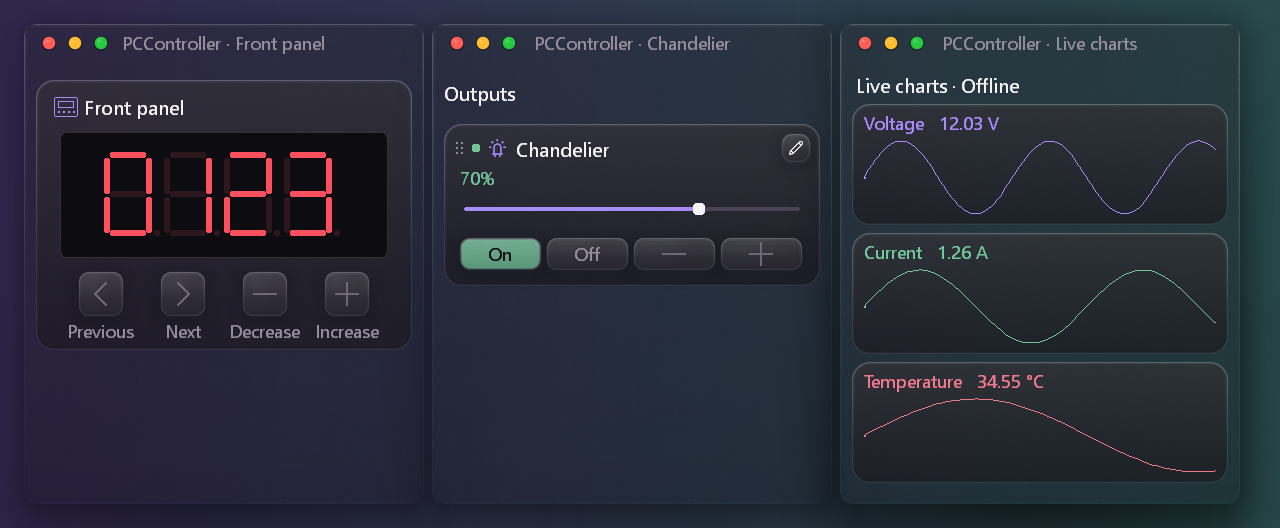
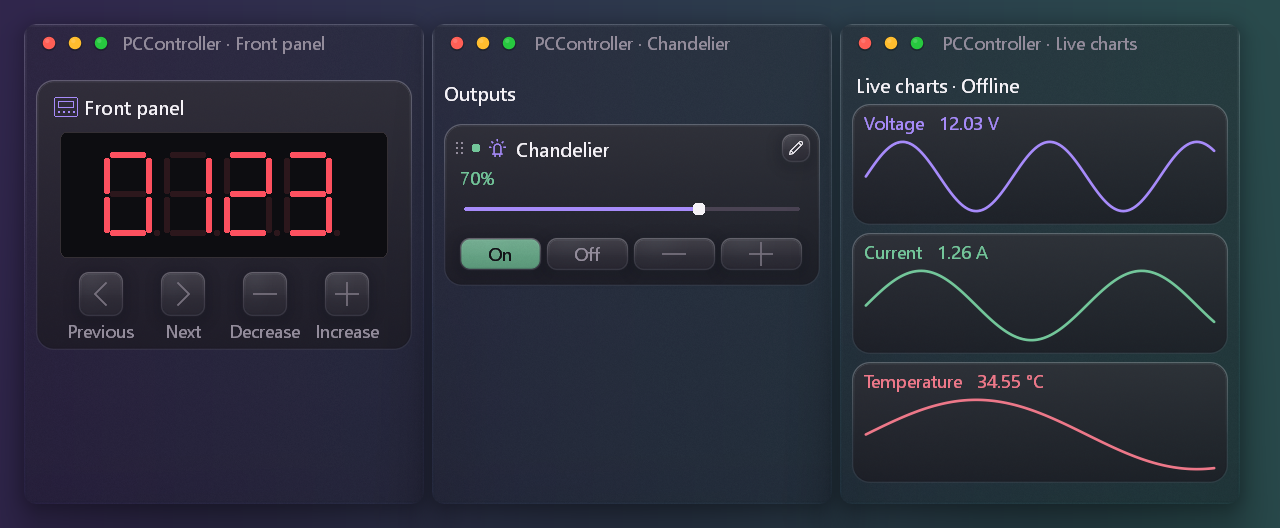
fix(desktop): antialias charts and finish README preview launchers

diff --git a/Tools/NativeDesktop/internal/ui/controller_charts_windows.go b/Tools/NativeDesktop/internal/ui/controller_charts_windows.go
@@ -1,0 +1,109 @@
+//go:build windows
+
+package ui
+
+import (
+	"image"
+	"image/color"
+	"math"
+	"slices"
+
+	"github.com/lxn/walk"
+	"github.com/srwiley/rasterx"
+	"golang.org/x/image/math/fixed"
+)
+
+// Coordinates are normalized sample positions, not integer device pixels.
+// Invalid points break the path; antialiasing never bridges missing telemetry.
+type controllerChartPoint struct {
+	x, y  float64
+	valid bool
+}
+
+type controllerChartRaster struct {
+	width, height, dpi int
+	ink                walk.Color
+	points             []controllerChartPoint
+	bitmap             *walk.Bitmap
+}
+
+func controllerChartStroke(dpi int) float64 {
+	return 1.8 * float64(max(96, dpi)) / 96
+}
+
+func rasterControllerChart(width, height, dpi int, ink walk.Color, points []controllerChartPoint) *image.RGBA {
+	target := image.NewRGBA(image.Rect(0, 0, width, height))
+	scanner := rasterx.NewScannerGV(width, height, target, target.Bounds())
+	scanner.SetColor(color.RGBA{R: byte(ink), G: byte(ink >> 8), B: byte(ink >> 16), A: 255})
+	stroke := controllerChartStroke(dpi)
+	path := rasterx.NewStroker(width, height, scanner)
+	path.SetStroke(fixed.Int26_6(math.Round(stroke*64)), 4<<6, rasterx.RoundCap, rasterx.RoundCap, rasterx.RoundGap, rasterx.Round)
+	inset := stroke/2 + 0.5
+	spanX, spanY := math.Max(0, float64(width)-2*inset), math.Max(0, float64(height)-2*inset)
+	toFixed := func(p controllerChartPoint) fixed.Point26_6 {
+		return fixed.Point26_6{X: fixed.Int26_6(math.Round((inset + p.x*spanX) * 64)), Y: fixed.Int26_6(math.Round((inset + p.y*spanY) * 64))}
+	}
+	count := 0
+	var first fixed.Point26_6
+	stop := func() {
+		if count == 0 {
+			return
+		}
+		if count == 1 {
+			// A tiny segment yields the same round coverage for an isolated
+			// observation, without inventing a link to another sample.
+			path.Line(fixed.Point26_6{X: first.X + 1, Y: first.Y})
+		}
+		path.Stop(false)
+		count = 0
+	}
+	for _, point := range points {
+		if !point.valid || math.IsNaN(point.x) || math.IsNaN(point.y) || math.IsInf(point.x, 0) || math.IsInf(point.y, 0) {
+			stop()
+			continue
+		}
+		point.x, point.y = math.Max(0, math.Min(1, point.x)), math.Max(0, math.Min(1, point.y))
+		p := toFixed(point)
+		if count == 0 {
+			first = p
+			path.Start(p)
+		} else {
+			path.Line(p)
+		}
+		count++
+	}
+	stop()
+	path.Draw()
+	return target
+}
+
+func (s *Shell) drawControllerChart(c *walk.Canvas, slot int, bounds walk.Rectangle, ink walk.Color, points []controllerChartPoint) error {
+	if bounds.Width <= 0 || bounds.Height <= 0 {
+		return nil
+	}
+	if s.controllerChartRasters == nil {
+		s.controllerChartRasters = make(map[int]*controllerChartRaster)
+	}
+	dpi := c.DPI()
+	cached := s.controllerChartRasters[slot]
+	if cached == nil || cached.width != bounds.Width || cached.height != bounds.Height || cached.dpi != dpi || cached.ink != ink || !slices.Equal(cached.points, points) {
+		rgba := rasterControllerChart(bounds.Width, bounds.Height, dpi, ink, points)
+		bitmap, err := walk.NewBitmapFromImageForDPI(rgba, dpi)
+		if err != nil {
+			return err
+		}
+		if cached != nil {
+			cached.bitmap.Dispose()
+		}
+		cached = &controllerChartRaster{width: bounds.Width, height: bounds.Height, dpi: dpi, ink: ink, points: slices.Clone(points), bitmap: bitmap}
+		s.controllerChartRasters[slot] = cached
+	}
+	return c.DrawImagePixels(cached.bitmap, walk.Point{X: bounds.X, Y: bounds.Y})
+}
+
+func (s *Shell) disposeControllerChartRasters() {
+	for _, cached := range s.controllerChartRasters {
+		cached.bitmap.Dispose()
+	}
+	s.controllerChartRasters = nil
+}

diff --git a/Tools/NativeDesktop/internal/ui/controller_charts_windows_test.go b/Tools/NativeDesktop/internal/ui/controller_charts_windows_test.go
@@ -1,0 +1,85 @@
+//go:build windows
+
+package ui
+
+import (
+	"math"
+	"testing"
+
+	"github.com/lxn/walk"
+)
+
+func TestControllerChartHasSubpixelCoverageAtEachDPI(t *testing.T) {
+	for _, dpi := range []int{96, 144, 192} {
+		raster := rasterControllerChart(160, 60, dpi, walk.RGB(167, 139, 250), []controllerChartPoint{{x: 0, y: 0.2, valid: true}, {x: 1, y: 0.8, valid: true}})
+		partial, opaque := 0, 0
+		for i := 0; i < len(raster.Pix); i += 4 {
+			a := raster.Pix[i+3]
+			if a > 0 && a < 255 {
+				partial++
+			}
+			if a == 255 {
+				opaque++
+			}
+			if raster.Pix[i] > a || raster.Pix[i+1] > a || raster.Pix[i+2] > a {
+				t.Fatal("chart is not premultiplied; acrylic edges would fringe")
+			}
+		}
+		if partial < 150 || opaque < 20 {
+			t.Fatalf("dpi=%d: missing antialiasing/solid stroke: partial=%d opaque=%d", dpi, partial, opaque)
+		}
+	}
+}
+
+func TestControllerChartPreservesGapsAndIsolatedSamples(t *testing.T) {
+	raster := rasterControllerChart(160, 60, 96, walk.RGB(115, 198, 154), []controllerChartPoint{
+		{x: 0, y: 0.5, valid: true}, {x: 0.2, y: 0.5, valid: true}, {},
+		{x: 0.5, y: 0.5, valid: true}, {},
+		{x: math.NaN(), y: 0.5, valid: true},
+		{x: 0.8, y: 0.5, valid: true}, {x: 1, y: 0.5, valid: true},
+	})
+	for _, x := range []int{55, 105} {
+		for y := 0; y < 60; y++ {
+			if raster.RGBAAt(x, y).A != 0 {
+				t.Fatal("stroke connected across missing telemetry")
+			}
+		}
+	}
+	if raster.RGBAAt(80, 30).A == 0 {
+		t.Fatal("isolated observed sample disappeared")
+	}
+}
+
+func TestControllerChartRasterCacheLifecycle(t *testing.T) {
+	s, _ := newControllerWindowFixture(t)
+	s.mw.Show()
+	pumpControllerFixture(s)
+	c, err := s.surface.CreateCanvas()
+	if err != nil {
+		t.Fatal(err)
+	}
+	defer c.Dispose()
+	points := []controllerChartPoint{{x: 0, y: 0.2, valid: true}, {x: 1, y: 0.8, valid: true}}
+	bounds := walk.Rectangle{Width: 160, Height: 60}
+	draw := func() {
+		t.Helper()
+		if err := s.drawControllerChart(c, 0, bounds, walk.RGB(167, 139, 250), points); err != nil {
+			t.Fatal(err)
+		}
+	}
+	draw()
+	first := s.controllerChartRasters[0]
+	draw()
+	if first != s.controllerChartRasters[0] {
+		t.Fatal("unchanged paint rerasterized the chart")
+	}
+	points[1].y = 0.6
+	draw()
+	if first == s.controllerChartRasters[0] {
+		t.Fatal("new sample did not invalidate chart")
+	}
+	s.releaseHiddenRenderResources()
+	if len(s.controllerChartRasters) != 0 {
+		t.Fatal("hidden widget retained native chart bitmaps")
+	}
+}

diff --git a/Tools/Controller/internal/tui/preview_svg.go b/Tools/Controller/internal/tui/preview_svg.go
@@ -21,7 +21,8 @@ func PreviewSVG(frame string) string {
 		width = max(width, ansi.StringWidth(line))
 	}
 	var out strings.Builder
-	fmt.Fprintf(&out, `<svg xmlns="http://www.w3.org/2000/svg" width="%d" height="%d" viewBox="0 0 %d %d" role="img" aria-label="PCController terminal interface preview"><rect width="100%%" height="100%%" rx="12" fill="#121116"/><g font-family="Cascadia Mono,Consolas,DejaVu Sans Mono,monospace" font-size="14" xml:space="preserve">`, width*9+32, len(lines)*20+32, width*9+32, len(lines)*20+32)
+	// Keep terminal spacing explicit, including in SVG2 browsers.
+	fmt.Fprintf(&out, `<svg xmlns="http://www.w3.org/2000/svg" width="%d" height="%d" viewBox="0 0 %d %d" role="img" aria-label="PCController terminal interface preview"><rect width="100%%" height="100%%" rx="12" fill="#121116"/><g font-family="Cascadia Mono,Consolas,DejaVu Sans Mono,monospace" font-size="14" style="white-space:pre" xml:space="preserve">`, width*9+32, len(lines)*20+32, width*9+32, len(lines)*20+32)
 	fg, bg, bold, inverse := "#f5f2f7", "", false, false
 	for row, line := range lines {
 		x, offset := 16, 0
@@ -45,7 +46,14 @@ func PreviewSVG(frame string) string {
 			if bold {
 				weight = "bold"
 			}
-			fmt.Fprintf(&out, `<text x="%d" y="%d" fill="%s" font-weight="%s" textLength="%d" lengthAdjust="spacingAndGlyphs">%s</text>`, x, 31+row*20, ink, weight, pixels, html.EscapeString(text))
+			// Browsers exclude trailing whitespace from textLength, even with
+			// white-space:pre. Advance the complete terminal span ourselves and
+			// fit only its visible content; NBSP preserves interior cell padding.
+			visible := strings.Trim(text, " ")
+			if visible != "" {
+				leading := len(text) - len(strings.TrimLeft(text, " "))
+				fmt.Fprintf(&out, `<text x="%d" y="%d" fill="%s" font-weight="%s" textLength="%d" lengthAdjust="spacingAndGlyphs">%s</text>`, x+leading*9, 31+row*20, ink, weight, ansi.StringWidth(visible)*9, html.EscapeString(strings.ReplaceAll(visible, " ", "\u00a0")))
+			}
 			x += pixels
 		}
 		for _, match := range previewSGR.FindAllStringSubmatchIndex(line, -1) {

diff --git a/Tools/NativeDesktop/internal/ui/controller_widgets_windows.go b/Tools/NativeDesktop/internal/ui/controller_widgets_windows.go
@@ -339,12 +339,7 @@ func (s *Shell) paintControllerCharts(c *walk.Canvas, b walk.Rectangle, p palett
 			hi += 0.5
 		}
 		plot := walk.Rectangle{X: r.X + 12, Y: r.Y + 36, Width: r.Width - 24, Height: max(8, r.Height-48)}
-		pen, err := walk.NewCosmeticPen(walk.PenSolid, m.color)
-		if err != nil {
-			continue
-		}
-		var previous walk.Point
-		have := false
+		points := make([]controllerChartPoint, 0, len(history))
 		span := last.at.Sub(history[0].at).Seconds()
 		if span <= 0 {
 			span = 1
@@ -352,18 +347,14 @@ func (s *Shell) paintControllerCharts(c *walk.Canvas, b walk.Rectangle, p palett
 		for _, point := range history {
 			v, ok := m.value(point)
 			if !ok {
-				have = false
+				points = append(points, controllerChartPoint{})
 				continue
 			}
-			next := walk.Point{X: plot.X + int(point.at.Sub(history[0].at).Seconds()/span*float64(plot.Width)), Y: plot.Y + plot.Height - int((v-lo)/(hi-lo)*float64(plot.Height))}
-			if have {
-				c.DrawLinePixels(pen, previous, next)
-			} else {
-				controllerFill(c, walk.Rectangle{X: next.X, Y: next.Y, Width: 2, Height: 2}, m.color, 1)
-			}
-			previous, have = next, true
+			points = append(points, controllerChartPoint{x: point.at.Sub(history[0].at).Seconds() / span, y: 1 - (v-lo)/(hi-lo), valid: true})
 		}
-		pen.Dispose()
+		if err := s.drawControllerChart(c, i, plot, m.color, points); err != nil {
+			return err
+		}
 	}
 	return nil
 }

diff --git a/Tools/NativeDesktop/internal/ui/shell_windows.go b/Tools/NativeDesktop/internal/ui/shell_windows.go
@@ -110,6 +110,7 @@ type Shell struct {
 	controllerOwner             *Shell
 	controllerWidgetID          string
 	controllerWidgets           map[string]*Shell
+	controllerChartRasters      map[int]*controllerChartRaster
 	controllerHistory           []controllerTelemetryPoint
 	controller                  *presentation.Options
 	controllerState             presentation.Snapshot
@@ -500,6 +501,7 @@ func (s *Shell) Close() {
 		s.appIcon = nil
 	}
 	s.closeControllerInline()
+	s.disposeControllerChartRasters()
 	for _, font := range s.controllerIconFonts {
 		font.Dispose()
 	}

diff --git a/Tools/Controller/internal/tui/preview_svg_test.go b/Tools/Controller/internal/tui/preview_svg_test.go
@@ -28,3 +28,12 @@ func TestPreviewPageNamesUseSharedRouting(t *testing.T) {
 		t.Fatal("unknown page accepted")
 	}
 }
+
+func TestPreviewSVGSeparatesTerminalPaddingFromVisibleText(t *testing.T) {
+	svg := PreviewSVG("\x1b[48;5;1m  OPEN  \x1b[0m")
+	if !strings.Contains(svg, `x="16" y="16" width="72"`) ||
+		!strings.Contains(svg, `<text x="34"`) ||
+		!strings.Contains(svg, `textLength="36" lengthAdjust="spacingAndGlyphs">OPEN</text>`) {
+		t.Fatal("terminal padding changed the background width or stretched the visible label")
+	}
+}

diff --git a/Tools/Controller/cmd/tui-preview/main.go b/Tools/Controller/cmd/tui-preview/main.go
@@ -17,7 +17,7 @@ func main() {
 		fmt.Fprintln(os.Stderr, "environment:", err)
 		os.Exit(1)
 	}
-	pageName := flag.String("page", "dashboard", "dashboard, controls, menus, board, app, rf, program, automate, events, or console")
+	pageName := flag.String("page", "dashboard", "dashboard, controls, menus, board, app, rf, program, effects, events, or console")
 	width := flag.Int("width", 132, "render width")
 	height := flag.Int("height", 38, "render height")
 	frame := flag.Int("frame", 0, "animation frame for welcome preview")

diff --git a/Tools/NativeDesktop/internal/ui/foreground_recovery_windows.go b/Tools/NativeDesktop/internal/ui/foreground_recovery_windows.go
@@ -128,6 +128,7 @@ func (s *Shell) releaseHiddenRenderResources() {
 	if s == nil {
 		return
 	}
+	s.disposeControllerChartRasters()
 	// Keep the resolved backend policy/capability, but release its swap chain,
 	// D3D device, DirectComposition tree, and CPU recovery surfaces while no
 	// main-window pixels can be seen. The next visible paint recreates them

diff --git a/Tools/Build/README.md b/Tools/Build/README.md
@@ -47,8 +47,8 @@ console icon.
 
 ### README interface previews
 
-Run `node Tools/Build/update-readme-previews.mjs` on Windows from an interactive
-desktop session to regenerate the README gallery. It builds the real TUI preview
+Run `screenshots.cmd` (or `node Tools/Build/update-readme-previews.mjs`) on Windows
+from an interactive desktop session to regenerate the README gallery. It builds the real TUI preview
 and the isolated native GUI fixture, captures dashboard, channels, compact mode
 and detachable widgets, and replaces only the marked gallery in the root README.
 The PNG and SVG assets live in `docs/assets/screenshots/`.
@@ -61,8 +61,8 @@ physical hardware operation. Go and Node are required; dependencies must already
 be available or downloadable by Go. The canonical stable-path Go runner is used
 for native capture.
 
-Use `node Tools/Build/update-readme-previews.mjs --tui-only` on any supported Go
-host to refresh just the terminal SVG assets without changing the README gallery.
+Use `bash screenshots.sh --tui-only` (or the Node command with `--tui-only`) on any
+supported Go host to refresh just the terminal SVG assets without changing the README gallery.
 For an individual terminal page, `tui-preview --page controls --format svg`
 exports the actual ANSI layout and palette as a self-contained SVG.
 

diff --git a/README.md b/README.md
@@ -88,9 +88,11 @@ These are reproducible **offline previews**, rendered by the actual application 
 | --- | --- |
 | ![Compact front panel](docs/assets/screenshots/gui-compact.png) | ![Independent acrylic widgets](docs/assets/screenshots/gui-widgets.png) |
 
-![PCController TUI dashboard](docs/assets/screenshots/tui-dashboard.svg)
+| TUI dashboard | TUI Control page |
+| --- | --- |
+| ![PCController TUI dashboard](docs/assets/screenshots/tui-dashboard.svg) | ![PCController TUI Control page](docs/assets/screenshots/tui-controls.svg) |
 
-Regenerate with `node Tools/Build/update-readme-previews.mjs` on Windows; use `--tui-only` for terminal assets on other systems.
+Regenerate on Windows with `screenshots.cmd`, or `node Tools/Build/update-readme-previews.mjs`. On other systems use `bash screenshots.sh --tui-only` for terminal assets.
 <!-- controller-preview-gallery:end -->
 
 Use **Desktop widgets…** in the desktop/tray menu to show individual acrylic

diff --git a/docs/DESKTOP-WIDGETS.md b/docs/DESKTOP-WIDGETS.md
@@ -30,6 +30,10 @@ Opening a widget does not create another board connection. Charts use bounded
 in-memory samples and retain their last values with an Offline label when the
 connection is lost.
 
+Chart strokes use subpixel vector antialiasing, rounded joins and DPI-scaled
+widths. Missing samples break the line. Raster images are reused between data
+updates and released when a widget is hidden.
+
 The [README gallery](../README.md) shows
 offline sample renders. Regenerate it using
 `node Tools/Build/update-readme-previews.mjs` on Windows.
